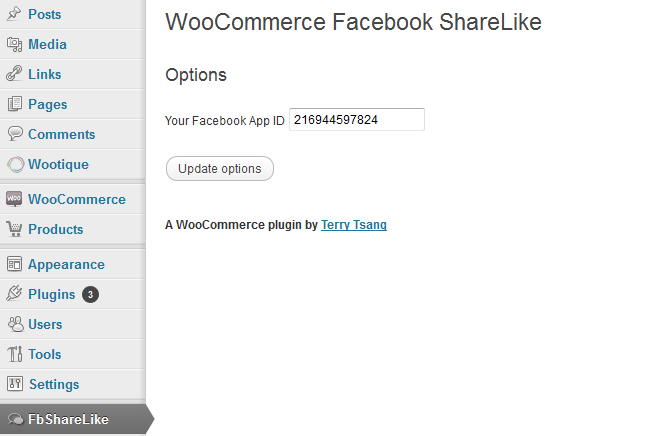
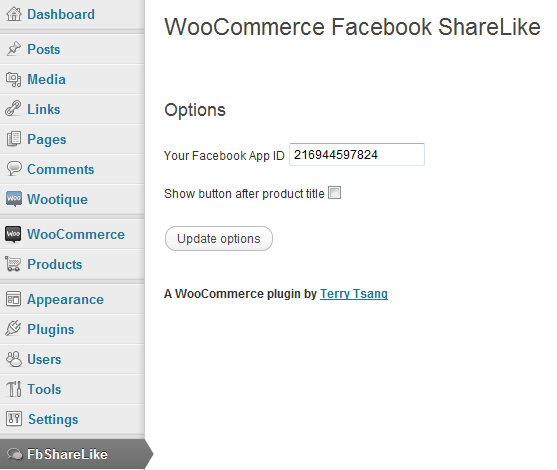
updated option for show after product title and fixed missing js file.
git-svn-id: https://plugins.svn.wordpress.org/woocommerce-facebook-share-like-button/trunk@604233 b8457f37-d9ea-0310-8a92-e5e31aec5664

Changed region(s): [[0.0, 0.0, 0.9767, 1.0]]

diff --git a/tsang_fbsharelike.php b/tsang_fbsharelike.php
@@ -4,7 +4,7 @@
 Plugin Name: WooCommerce Facebook Like Share Button
 Plugin URI: http://terrytsang.com
 Description: Add a Facebook Like and Share button to your product pages
-Version: 1.1.0
+Version: 1.2.0
 Author: Terry Tsang
 Author URI: http://terrytsang.com
 */
@@ -42,9 +42,6 @@ if ( ! class_exists( 'TSANG_WooCommerce_FbShareLike_Button' ) ) {
 			$this->plugin_url = trailingslashit(plugins_url(null,__FILE__));
 			$this->key = 'tsang_fbsharelike';
 			
-			//It will be called only if the product has it enabled, then enqueue our script here
-			add_action( 'wp_enqueue_scripts', array( &$this, 'tsang_fbsharelike_scripts' ) );
-			
 			//Add product write panel
 			add_action( 'woocommerce_product_write_panels', array(&$this, 'tsang_fbsharelike_main') );
 			add_action( 'woocommerce_product_write_panel_tabs', array(&$this,'tsang_fbsharelike_tab') );
@@ -53,8 +50,14 @@ if ( ! class_exists( 'TSANG_WooCommerce_FbShareLike_Button' ) ) {
 			add_action( 'woocommerce_process_product_meta', array(&$this, 'tsang_fbsharelike_meta') );
 			
 			//Display on product page for the facebook share and like button
-			add_action( 'woocommerce_single_product_summary', array(&$this, 'tsang_fbsharelike_button' ), 100 );
+			$this->options = $this->get_options();
+			$option_show_after_table = $this->options['custom_show_after_title'];
 			
+			if( $option_show_after_table == 'yes' )
+				add_action( 'woocommerce_single_product_summary', array(&$this, 'tsang_fbsharelike_button' ), 8 );
+			else
+				add_action( 'woocommerce_single_product_summary', array(&$this, 'tsang_fbsharelike_button' ), 100 );
+				
 			$this->options = $this->get_options();
 			
 			//Display Admin Menu for Facebook App ID
@@ -63,18 +66,6 @@ if ( ! class_exists( 'TSANG_WooCommerce_FbShareLike_Button' ) ) {
 			//Add javascript after <body> tag
 			//add_action( 'init', array( &$this, 'add_afterbody_scripts' ) );
 			add_action( 'wp_footer', array( &$this, 'add_afterbody_scripts' ) );
-		}
-		
-		//start to include plugin scripts if the product is enabled for facebook share and like option
-		function tsang_fbsharelike_scripts()
-		{
-			global $post;
-			$enabled_option = get_post_meta($post->ID, $this->id, true);
-			$plugin_js_file = plugin_dir_url( __FILE__ ) . 'assets/js/tsang_fbsharelike.js';
-			
-			if( $enabled_option == 'yes' ):
-				wp_enqueue_script( 'tsang-fbsharelike-script', $plugin_js_file );
-			endif;
 		}
 		
 		function tsang_fbsharelike_main()
@@ -155,11 +146,6 @@ if ( ! class_exists( 'TSANG_WooCommerce_FbShareLike_Button' ) ) {
 		//start to include any script after <body> tag
 		function add_afterbody_scripts()
 		{
-			//$script_js_file = plugin_dir_url( __FILE__ ) . 'assets/js/tsang_fbsharelike_jquery.js';
-			
-			//wp_enqueue_script('jquery');
-			//wp_enqueue_script('body-init-script', $script_js_file, 'jquery', '1.0');
-			
 			$custom_facebook_app_id = $this->options['custom_facebook_app_id'];
 			if ( ! $custom_facebook_app_id ) 
 				$custom_facebook_app_id = '216944597824';
@@ -182,6 +168,7 @@ if ( ! class_exists( 'TSANG_WooCommerce_FbShareLike_Button' ) ) {
 				check_admin_referer( 'facebook-sharelike' );
 				
 				$this->options['custom_facebook_app_id'] = ! isset( $_POST['custom_facebook_app_id'] ) ? '216944597824' : $_POST['custom_facebook_app_id'];
+				$this->options['custom_show_after_title'] = ! isset( $_POST['custom_show_after_title'] ) ? '' : $_POST['custom_show_after_title'];
 				
 				update_option( $this->key, $this->options );
 				
@@ -190,8 +177,13 @@ if ( ! class_exists( 'TSANG_WooCommerce_FbShareLike_Button' ) ) {
 			} 
 			
 			$custom_facebook_app_id = $this->options['custom_facebook_app_id'];
+			$custom_show_after_title = $this->options['custom_show_after_title'];
 			if ( ! $custom_facebook_app_id ) 
 				$custom_facebook_app_id = '216944597824';
+			
+			$checked_value = '';
+			if($custom_show_after_title == 'yes')
+				$checked_value = 'checked="checked"';
 			
 			global $wp_version;
 		
@@ -217,6 +209,11 @@ if ( ! class_exists( 'TSANG_WooCommerce_FbShareLike_Button' ) ) {
 									<label for="custom_facebook_app_id">Your Facebook App ID</label>
 									<input id="custom_facebook_app_id" name="custom_facebook_app_id" value="<?php echo $custom_facebook_app_id; ?>" size="20"/>
 								</div>
+								<div>&nbsp;</div>
+								<div>
+									<label for="custom_facebook_app_id">Show button after product title</label>
+									<input class="checkbox" name="custom_show_after_title" id="custom_show_after_title" value="yes" <?php echo $checked_value; ?> type="checkbox">
+								</div>
 								<div class="submit"><input type="submit" name="Submit" value="<?php _e( 'Update options', 'facebook-sharelike' ); ?>" /></div>
 							</form>
 						</div>
@@ -231,6 +228,7 @@ if ( ! class_exists( 'TSANG_WooCommerce_FbShareLike_Button' ) ) {
 		function get_options() {
 			$options = array(
 				'custom_facebook_app_id' => '216944597824',
+				'custom_show_after_title' => '',
 			);
 			$saved = get_option( $this->key );
 			
